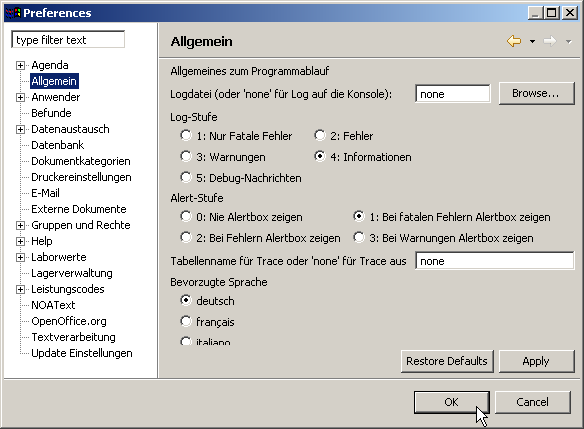
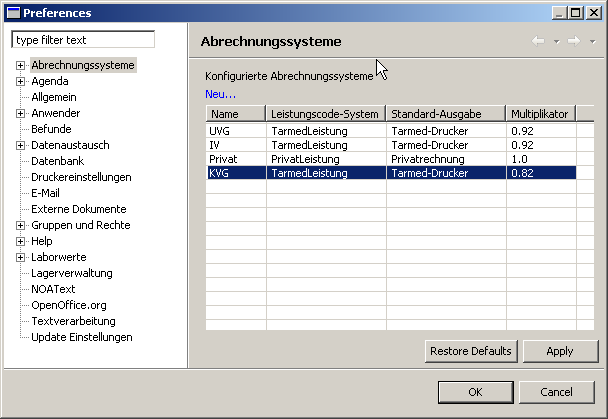
[svn] Ergänzungen Abrechnungssystem und tour

diff --git a/dokumentation/tour/patneu.tex b/dokumentation/tour/patneu.tex
@@ -8,7 +8,7 @@
 % * Contributors:
 % *    G. Weirich - initial implementation
 % *
-% *  $Id: patneu.tex 2773 2007-07-10 15:58:33Z rgw_ch $
+% *  $Id: patneu.tex 2927 2007-07-28 10:51:20Z rgw_ch $
 % *******************************************************************************
 % !Mode:: "TeX:UTF-8" (encoding info for WinEdt)
 
@@ -22,17 +22,19 @@ leer).\footnote{Die meisten Abbildungen dieser Tour entstammen Windows XP. Unter
 	\label{fig:startbild}
 \end{figure}
 \section{Patientendaten erfassen}
-Aktivieren sie mit einem Klick die Ansicht 'Patienten' und schreiben Sie in die Eingabefelder Name und Vorname der neuen Patientin.
-Falls die Patientin schon einmal erfasst worden ist erscheint ihr Name, in unserem Fall, wo keine Patientin dieses Namens vorhanden ist,
-wird \glqq Keine Daten\grqq{}angezeigt (s. Abb. \ref{fig:patname}).
-\begin{figure}[ht]
-	\includegraphics{images/einf1}
+\begin{wrapfigure}{r}{8cm}
+	\includegraphics[width=7cm]{images/einf1}
 	\caption{Patientennamen eingeben}
 	\label{fig:patname}
-\end{figure}
+\end{wrapfigure}
+Aktivieren sie mit einem Klick die Ansicht 'Patienten' und schreiben Sie in die Eingabefelder Name und Vorname der neuen Patientin.
+Falls die Patientin schon einmal erfasst worden ist erscheint ihr Name, in unserem Fall, wo keine Patientin dieses Namens vorhanden ist, wird \glqq Keine Daten\grqq{}angezeigt (s. Abb. \ref{fig:patname}).
+
 Klicken Sie dann auf den roten Stern oben rechts, um eine Patientin mit diesen
 Daten neu anzulegen. Es erscheint ein Dialogfenster (Abb. \ref{fig:patdata}), wo
-Sie die Angaben in die entsprechenden Felder eingeben können.
+Sie die Angaben in die entsprechenden Felder eingeben können.\\
+\bigskip
+
 \begin{figure}[ht]
 	\includegraphics{images/einf2}
 	\caption{Patientendaten ergänzen}
@@ -45,26 +47,44 @@ wo Sie 'OK' klicken -- egal wieviele Daten zu diesem Zeitpunkt eingegeben sind.
 
 \section{Falldaten erfassen}
 Bei einer neuen Patientin müssen Sie zunächst einen \glqq Fall\grqq{} erstellen, dem
-die Konsultation zugeordnet werden kann. Ein Fall sammelt alle Konsultationen, die einem gemeinsamen Garanten
-zugeordnet werden können. Klicken Sie also in der \glqq Fälle\grqq{}-Ansicht
+die Konsultation zugeordnet werden kann.
+
+\begin{figure}[htbp]
+     \begin{minipage}{0.4\textwidth}
+      \centering
+       \includegraphics[width=0.8\textwidth]{images/einf3}
+       \caption{Fälle-Ansicht}
+       	\label{fig:faelle1}
+     \end{minipage}\hfill
+     \begin{minipage}{0.5\textwidth}
+      \centering
+       \includegraphics[width=0.8\textwidth]{images/einf4}
+       \caption{Fall-Detail}
+       \label{fig:falldetail}
+     \end{minipage}
+   \end{figure}
+   
+%\begin{wrapfigure}{r}{7cm}
+%	\includegraphics[width=5cm]{images/einf3}
+%	\caption{Fälle-Ansicht}
+%	\label{fig:faelle1}
+%	\includegraphics[width=7cm]{images/einf4}
+%	\caption{Fall-Details}
+%	\label{fig:falldetail}
+%\end{wrapfigure}
+
+Ein Fall sammelt alle Konsultationen, die mit einem gemeinsamen Abrechnungssystem erfasst werden. (Vgl. \ref{settings:abrechnungssystem} auf S. \pageref{settings:abrechnungssystem}).
+Klicken Sie also in der \glqq Fälle\grqq{}-Ansicht
 (Abb. \ref{fig:faelle1}) auf den \glqq Neu\grqq{}-Stern.
-\begin{figure}[ht]
-	\includegraphics{images/einf3}
-	\caption{Fälle-Ansicht}
-	\label{fig:faelle1}
-\end{figure}
+
 Dadurch öffnet sich ein Dialog, in dem Sie wiederum die Angaben eintragen
 können, soweit diese Ihnen bekannt sind (Abb. \ref{fig:falldetail})
-\begin{figure}[ht]
-	\includegraphics{images/einf4}
-	\caption{Fall-Details}
-	\label{fig:falldetail}
-\end{figure}
+
 Spätestens zur Rechnungsstellung müssen dann allerdings die notwendigen Angaben (Debitor, Kostenträger und Versicherungsnummer bzw. Fallnummer)
 eingegeben werden.
 Nach dem Klick auf OK haben Sie den neuen Fall erstellt. Bei weiteren
-Konsultationen kann man sich diesen Schritt natürlich sparen.
-
+Konsultationen kann man sich diesen Schritt natürlich sparen.\\
+\bigskip
 Als nächstes erstellen wir eine neue Konsultation, wieder mit dem nun schon
 bekannten Stern-Symbol (Abb. \ref{fig:neuekons}.
 \begin{figure}[ht]
@@ -75,10 +95,12 @@ bekannten Stern-Symbol (Abb. \ref{fig:neuekons}.
 \pagebreak[2]
 Danach können wir mit dem KG-Eintrag beginnen (Abb. \ref{fig:KG}).
 \section{Krankengeschichte führen}
-\begin{figure}[ht]
-	\includegraphics[width=0.7\textwidth]{images/einf6}
-	\caption{KG-Eintrag}
-	\label{fig:KG}
+\begin{figure}
+    \begin{center}
+	   \includegraphics[width=0.8\textwidth]{images/einf6}
+    	\caption{KG-Eintrag}
+	   \label{fig:KG}
+    \end{center}
 \end{figure}
 Der KG-Eintrag kann einfache Textformatierungen enthalten, Textbausteine können
 beliebig definiert und über eine konfigurierbare shortcut-Taste aufgerufen werden. Die Verrechnung erfolgt dann entweder über ein Tastaturmakro oder per Maus.
@@ -87,7 +109,7 @@ Sie durch Klicken auf \glqq Verrechnung\grqq{} die Leistungen-Ansicht öffnen
 (Abb. \ref{fig:Verrechnung}. Analog können sie durch klicken auf
 \glqq Behandlungsdiagnosen\grqq{} die Diagnosen-Ansicht öffnen.\bigskip
 \begin{figure}[ht]
-	\includegraphics[width=0.7\textwidth]{images/einf7}
+	\includegraphics[width=6cm]{images/einf7}
 	\caption{Verrechnungs-Fenster}
 	\label{fig:Verrechnung}
 \end{figure}
@@ -95,14 +117,4 @@ Dieses Fenster enthält alle im System vorgesehenen Leistungscode-Systeme, sowie
 Sie können entweder einen ganzen Block oder einzelne Leistungen aus dem Block oder aus einem anderen Leistungsfenster (Tarmed etc.) ins \glqq Verrechnung\grqq{}-Feld ziehen (drag and drop).
 
 Genau gleich lassen sich zur Konsultation auch Diagnosen zuordnen, auch hier hat man die Wahl zwischen allen im System integrierten Diagnosecodesystemen (beliebig anzupassen und erweiterbar).
-
-Zum Abschluss möchten wir Ihnen noch zeigen, wie Sie eine View zur besseren Übersicht auf volle Bildgrösse und wieder
-in ihren Originalzustand bringen können: Sie brauchen dazu nur auf dem Karteireiter der entsprechenden View doppelt zu
-klicken (Abb. \ref{fig:viewmax}).
-\begin{figure}[ht]
-	\includegraphics[width=0.9\textwidth]{images/einf8}
-	\includegraphics[width=0.9\textwidth]{images/einf9}
-	\caption{View maximieren}
-	\label{fig:viewmax}
-\end{figure}
 

diff --git a/dokumentation/settings.tex b/dokumentation/settings.tex
@@ -8,7 +8,7 @@
 % * Contributors:
 % *    G. Weirich - initial implementation
 % *
-% *  $Id: settings.tex 2819 2007-07-16 13:38:22Z rgw_ch $
+% *  $Id: settings.tex 2927 2007-07-28 10:51:20Z rgw_ch $
 % *******************************************************************************
 %
 % !Mode:: "TeX:UTF-8" (encoding info for WinEdt)
@@ -17,7 +17,7 @@
 Die Einstellungen sind alle im selben Dialog zusammengefasst, welcher unter
 \textsc{Datei-Einstellungen} erreicht werden kann (Abb. \ref{fig:settingsmain}).
 %\usepackage{graphics} is needed for \includegraphics
-\begin{figure}[htp]
+\begin{figure}[h]
 \begin{center}
   \includegraphics[width=0.6\textwidth]{images/settingsmain}
   \caption{Einstellungs-Dialog}
@@ -33,6 +33,39 @@ diejenigen Seiten ein, die zur Grundausstattung von Elexis gehören. Grundsätzl
 sollten alle Einstellungen \glqq Ab Werk\grqq{}vernünftige Grundeinstellungen
 aufweisen, so dass es zunächst nicht nötig ist, hier etwas zu ändern. Sie
 brauchen daher dieses Kapitel auch nicht unbedingt weiterzulesen.
+
+\section{Abrechnungssysteme}
+\label{settings:abrechnungssystem}
+\index{Abrechnungssystem}
+\index{KVG}\index{UVG}\index{TarMed}
+Auf dieser Seite legen Sie fest, welche Arten von Abrechnungssystemen in Ihrer Praxis verwendet werden. 
+
+Da Elexis ein universelles Programm ist, welches nicht nur Ärzte, sondern auch Angehörige anderer Gesundheitsberufe unterstützen kann, ist das Abrechnungssystem sehr offen und gehalten. Das bedeutet, dass anfänglich eine entsprechende Konfiguration notwendig ist.
+
+Die Verrechnung von Leistungen hat drei grundsätzliche Elemente:
+\begin{enumerate}
+    \item Ein Codesystem, also vereinfacht gesagt ein Konzept, um einzelne Leistungen und deren Wert zu benennen. Beispiel: \glqq Tarmed\grqq{}, \glqq Akupunkturtarif\grqq{} usw.
+   \item Ein Garantenkonzept, also wer bekommt die Rechnung, wer bezahlt letztlich usw. Beispiele: Tiers Garant, Privatrechnung etc.
+   \item Ein Rechnungskonzept: Wie muss die Rechnung aussehen, auf welchem Weg wird sie versandt (elektronisch, Papier)
+\end{enumerate}
+
+Eine Kombination aus Codesystem,Garantenkonzept und Rechnungskonzept nennen wir hier \glqq Abrechnungssystem\grqq{}.
+
+Man kann in Elexis beliebig viele Abrechnungssysteme definieren, welche parallel existieren und je nach Bedarf verwendet werden können. 
+
+Jedes Abrechnungssystem hat bestimmte Eigenschaften:
+\begin{wrapfigure}{l}{5cm}
+    \includegraphics[width=4.7cm]{images/abrechnungssystem1}
+    \caption{Abrechnungssystem Detail}
+    \label{fig:abr1}
+\end{wrapfigure}
+
+Der Name ist frei wählbar, Leistungscode-System und Standard-Rechnungsausgabe können aus den installierten Plugins gewählt werden (Für nicht vorhandene Abrechnungssysteme müssten entsprechende Plugins erstellt werden).
+Der Multiplikator ist ein Faktor, der auf jede einzelne Position angewendet wird, wenn sie verrechnet wird. Man kann also verschiedene Abrechnungssysteme mit demselbem Leistungscode-System, aber verschiedenen Multiplikatoren (\glqq Taxpunkten\grqq{}) haben. Mit \textit{Hinzufügen} kann man einen Multiplikator definieren, welcher immer ab einem bestimmten Datum gilt.
+
+Und schliesslich sind je nach Abrechnungssystem bestimmte Angaben notwendig, um die Leistungen zu verrechnen, beispielsweise Rechnungsempfänger, Kostenträger, Nummern etc.
+Elexis macht hier keine Vorschriften, Sie können eingeben, was immer Sie wollen. Es sind die Datentypen Text, Kontakt und Datum möglich. (Bei UVG-Versicherungen beispielsweise auch \glqq Unfalldatum\grqq{}).\\
+
 
 \section{Allgemein}
 Auf dieser Seite werden allgemeine Einstellungen für den Programmablauf

diff --git a/dokumentation/tour/customize.tex b/dokumentation/tour/customize.tex
@@ -8,7 +8,7 @@
 % * Contributors:
 % *    G. Weirich - initial implementation
 % *
-% *  $Id: customize.tex 2773 2007-07-10 15:58:33Z rgw_ch $
+% *  $Id: customize.tex 2927 2007-07-28 10:51:20Z rgw_ch $
 % *******************************************************************************
 % !Mode:: "TeX:UTF-8" (encoding info for WinEdt)
 
@@ -93,10 +93,8 @@ jeweils die passenden Ansichten. Die Werkzeugleiste führt, wie bei anderen
 Programmen üblich, zu verschiedenen Funktionen. Jede Ansicht hat einen
 Karteireiter, über den sie in den Vordergrund gebracht oder maximiert werden kann.
 
-Sie können die Fensterinhalte und Ansichten völlig frei gestalten. 
-%Die nächsten Seiten werden Ihnen zeigen,
-%wie einfach Sie Änderungen vornehmen und die Software so Ihren Arbeitsabläufen anpassen können.
-%Änderungen der Perspektiven und Ansichten  ?ub: Doppel der subsection ?
+Sie können die Fensterinhalte und Ansichten völlig frei gestalten.
+
 
 Die Programmfenster-Inhalte lassen sich jederzeit anpassen:
 \begin{itemize}
@@ -108,18 +106,27 @@ Die Programmfenster-Inhalte lassen sich jederzeit anpassen:
 \end{itemize}
 
 Jede Zusammenstellung kann als Perspektive gespeichert werden - und ist als
-solche auf einfache Art wieder aufrufbar. 
-%Die folgenden Beispiele zeigen Ihnen das Vorgehen.
+solche auf einfache Art wieder aufrufbar.
 
 \subsection{Perspektiven einrichten und speichern}
 Sie können nicht nur eine Perspektive erstellen, sondern beliebig viele. Ihre MPA braucht möglicherweise eine
 andere Perspektive als Sie selber, z.B. wünscht sie sich die Agenda gross. Oder Sie selber verwenden unterschiedliche
 Perspektiven, z.B. eine für Konsultationen und eine andere für die Buchhaltung oder wenn
-Sie einen Bericht schreiben. Perspektiven lassen sich mit Elexis in wenigen Schritten zusammenstellen:
-\begin{itemize}
- 	\item Benötigte Ansichten öffnen
-	\item Die Ansichten an die gewünschte Stelle schieben und auf die gewünschte Grösse bringen
-	\item Die Ansichten an die gewünschte Stelle schieben und auf die gewünschte Grösse bringen
-	\item Perspektive speichern
+Sie einen Bericht schreiben. Perspektiven lassen sich mit Elexis in wenigen Schritten zusammenstellen:\\
+\bigskip
+\textbf{Schritt 1: Benötigte Ansicht(en) öffnen}\\
+Wählen Sie im Menu \textsc{Fenster - Ansicht - Andere}. Es öffnet sich ein Dialog wie in Abb. \ref{fig:cust1}.
+ \begin{wrapfigure}{l}{5cm}
+    \includegraphics[width=4.8cm]{images/customize1}
+    \caption{View suchen}
+    \label{fig:cust1}
+ \end{wrapfigure}
+    Hier sehen Sie sämtliche Views, die in Ihrer Elexis-Installation vorhanden sind (Welche und wieviele das sind, hängt von den installierten Plugins ab). Wenn Sie in der obersten Zeile den Anfang der egsuchten View zu tippen beginnen, wird die Liste automatisch gefiltert.\\
+ \bigskip
+    
+\textbf{Schritt 2: Die Ansichten an die gewünschte Stelle schieben und auf die gewünschte Grösse bringen}\\
 
-\end{itemize}
+\bigskip
+\textbf{Schritt 3:Perspektive speichern}\\
+
+
